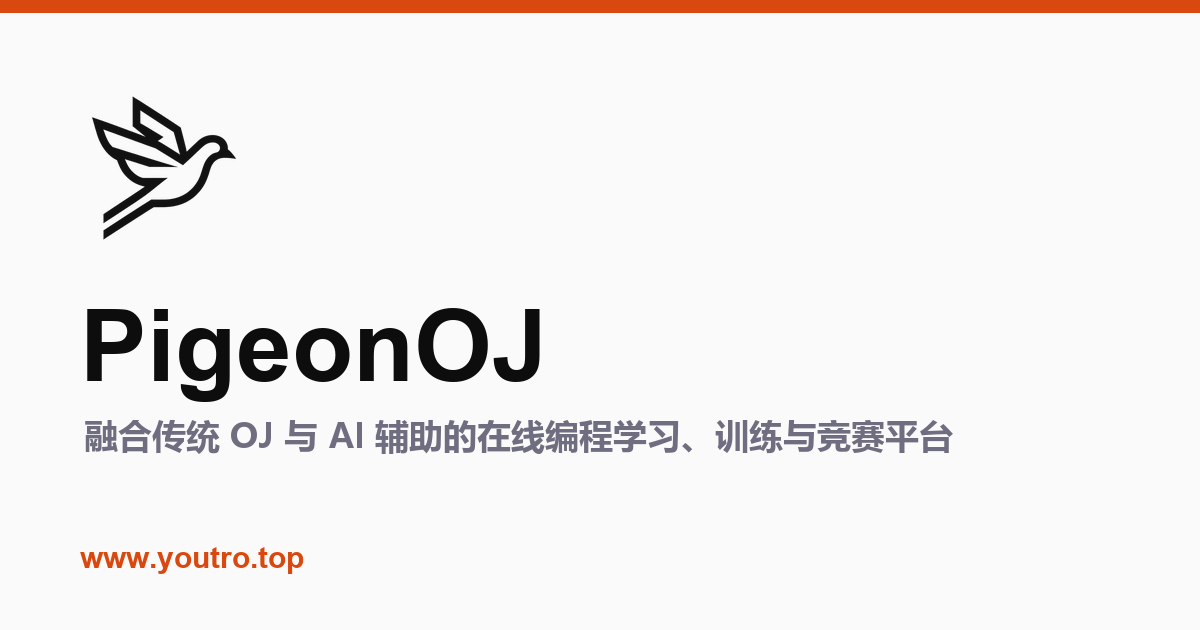
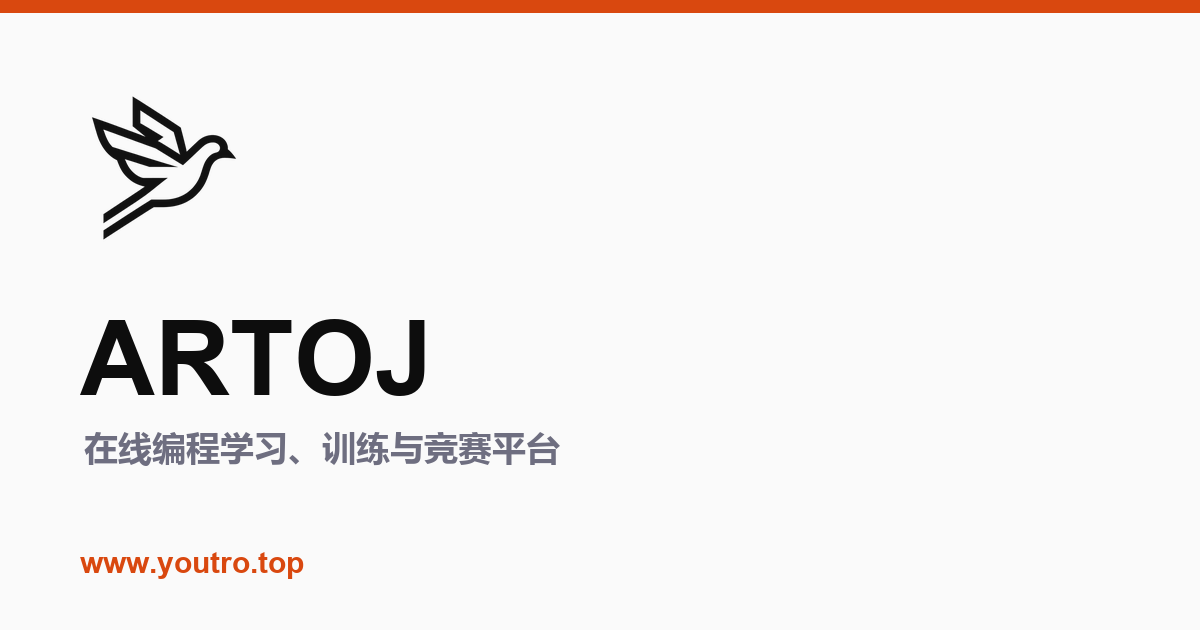
chore(seo): 站点品牌对齐 ARTOJ，更新 OG 图与站点清单

Changed region(s): [[0.0617, 0.4825, 0.8017, 0.754], [0.0617, 0.8746, 0.2775, 0.9349]]

diff --git a/src/frontend-next/index.html b/src/frontend-next/index.html
@@ -3,16 +3,16 @@
   <head>
     <meta charset="UTF-8" />
     <meta name="viewport" content="width=device-width, initial-scale=1.0" />
-    <title>PigeonOJ · 在线编程与竞赛平台</title>
+    <title>ARTOJ · 在线编程与竞赛平台</title>
     <meta
       name="description"
-      content="PigeonOJ 是融合传统 OJ 与 AI 辅助的在线编程学习、训练与竞赛平台，提供题库、题单、ACM/IOI 比赛、团队协作与代码广场。"
+      content="ARTOJ（PigeonOJ）是融合传统 OJ 与 AI 辅助的在线编程学习、训练与竞赛平台，提供题库、题单、ACM/IOI 比赛、团队协作与代码广场。"
     />
     <meta
       name="keywords"
-      content="PigeonOJ,在线评测,Online Judge,OJ,编程竞赛,算法训练,题解,代码广场,C++,Python,Java"
+      content="ARTOJ,PigeonOJ,在线评测,Online Judge,OJ,编程竞赛,算法训练,题解,代码广场,C++,Python,Java"
     />
-    <meta name="author" content="PigeonOJ" />
+    <meta name="author" content="ARTOJ" />
     <meta name="robots" content="index,follow,max-image-preview:large" />
     <meta name="theme-color" content="#d9480f" />
     <link rel="canonical" href="https://www.youtro.top/" />
@@ -23,8 +23,8 @@
     <link rel="manifest" href="/site.webmanifest" />
 
     <meta property="og:type" content="website" />
-    <meta property="og:site_name" content="PigeonOJ" />
-    <meta property="og:title" content="PigeonOJ · 在线编程与竞赛平台" />
+    <meta property="og:site_name" content="ARTOJ" />
+    <meta property="og:title" content="ARTOJ · 在线编程与竞赛平台" />
     <meta
       property="og:description"
       content="融合传统 OJ 与 AI 辅助的在线编程学习、训练与竞赛平台：题库、题单、比赛、团队协作与代码广场。"
@@ -36,7 +36,7 @@
     <meta property="og:locale" content="zh_CN" />
 
     <meta name="twitter:card" content="summary_large_image" />
-    <meta name="twitter:title" content="PigeonOJ · 在线编程与竞赛平台" />
+    <meta name="twitter:title" content="ARTOJ · 在线编程与竞赛平台" />
     <meta
       name="twitter:description"
       content="融合传统 OJ 与 AI 辅助的在线编程学习、训练与竞赛平台。"
@@ -50,7 +50,8 @@
           {
             "@type": "Organization",
             "@id": "https://www.youtro.top/#organization",
-            "name": "PigeonOJ",
+            "name": "ARTOJ",
+            "alternateName": "PigeonOJ",
             "url": "https://www.youtro.top/",
             "logo": {
               "@type": "ImageObject",
@@ -63,7 +64,7 @@
             "@type": "WebSite",
             "@id": "https://www.youtro.top/#website",
             "url": "https://www.youtro.top/",
-            "name": "PigeonOJ",
+            "name": "ARTOJ",
             "description": "融合传统 OJ 与 AI 辅助的在线编程学习、训练与竞赛平台。",
             "inLanguage": "zh-CN",
             "publisher": { "@id": "https://www.youtro.top/#organization" }
